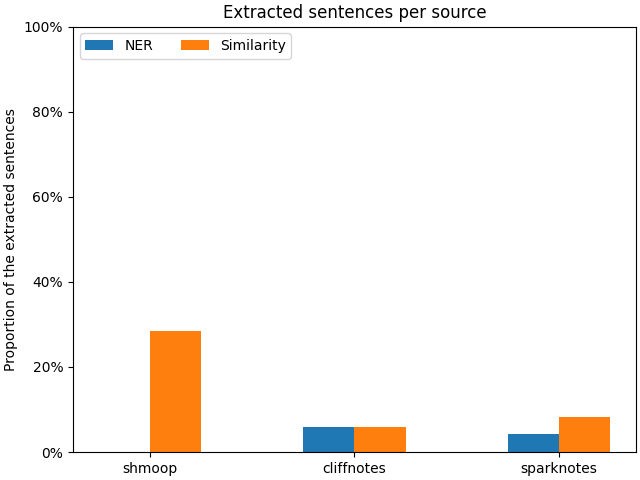
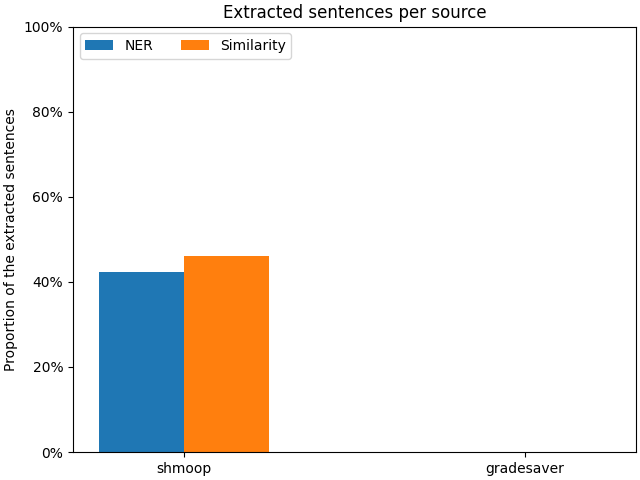
WIP debugging analyze

Changed region(s): [[0.1562, 0.5312, 0.4375, 1.0], [0.75, 0.8438, 0.9688, 1.0], [0.4688, 0.875, 0.6562, 1.0]]

diff --git a/analyze.py b/analyze.py
@@ -2,6 +2,8 @@ from nltk.tokenize import sent_tokenize
 from collections import defaultdict
 import numpy as np
 import matplotlib.pyplot as plt
+import json
+from data import RecapData
 
 def kept_positions(summs, recaps):
     values = [0, 0, 0]
@@ -22,17 +24,15 @@ def kept_positions(summs, recaps):
     return values
 
 def num_kept_sents(dataset, recaps, src_names):
-    counter = 0
     num_kept = defaultdict(int)
     num_orig = defaultdict(int)
     for inst in dataset:
-        for pos, summ in enumerate(inst["previous_summary"][:3]):
+        for pos, summ in enumerate(inst["previous_summary"]):
             source = inst["previous_source"][pos]
 
-            num_kept[source] += len(sent_tokenize(recaps[counter]))
+            num_kept[source] += len(sent_tokenize(recaps[inst["recap_id"]][pos]))
             num_orig[source] += len(sent_tokenize(summ))
 
-            counter += 1
 
     kept_norm = []
     for src in src_names:
@@ -63,7 +63,7 @@ def vis_pos(positions, filename):
     ax.set_title('Position of the recap sentences in the original summary')
     ax.set_xticks(x + width/2, names)
     ax.legend(loc='upper left', ncols=2)
-    ax.set_ylim(0, 12)
+    ax.set_ylim(0, max([pos for pos_list in positions.values() for pos in pos_list])+5)
 
     #plt.show()
     plt.savefig(filename)
@@ -91,3 +91,26 @@ def vis_num_kept(kept_sources, names, filename):
 
     #plt.show()
     plt.savefig(filename)
+
+if __name__ == "__main__":
+    test_recaps = RecapData("./data/small_validation.jsonl", split = "validation")
+    dataset = test_recaps.mapped_summs["validation"]
+
+    with open('./recaps/small/small_base.json', 'r') as file:
+        base_res = json.load(file)
+    with open('./recaps/small/small_ner.json', 'r') as file:
+            ner_res = json.load(file)
+    with open('./recaps/small/small_sim.json', 'r') as file:
+            sim_res = json.load(file)
+
+    ner_recaps = [recap for recaps in ner_res.values() for recap in recaps]
+    sim_recaps = [recap for recaps in sim_res.values() for recap in recaps]
+    base_recaps = [summ for summs in base_res.values() for summ in summs]
+    # Positions of kept sentences
+    # positions = {"NER": kept_positions(base_recaps, ner_recaps), "Similarity": kept_positions(base_recaps, sim_recaps)} 
+    # vis_pos(positions, "./visualizations/small/small_pos.png")
+
+    # Proportion of kept sentences
+    src_names = list({idx.split("_")[1] for idx in base_res.keys()})
+    kept_sources = {"NER": num_kept_sents(dataset, ner_res, src_names), "Similarity": num_kept_sents(dataset, sim_res, src_names)}
+    vis_num_kept(kept_sources, src_names, "./visualizations/small/small_kept.png")
